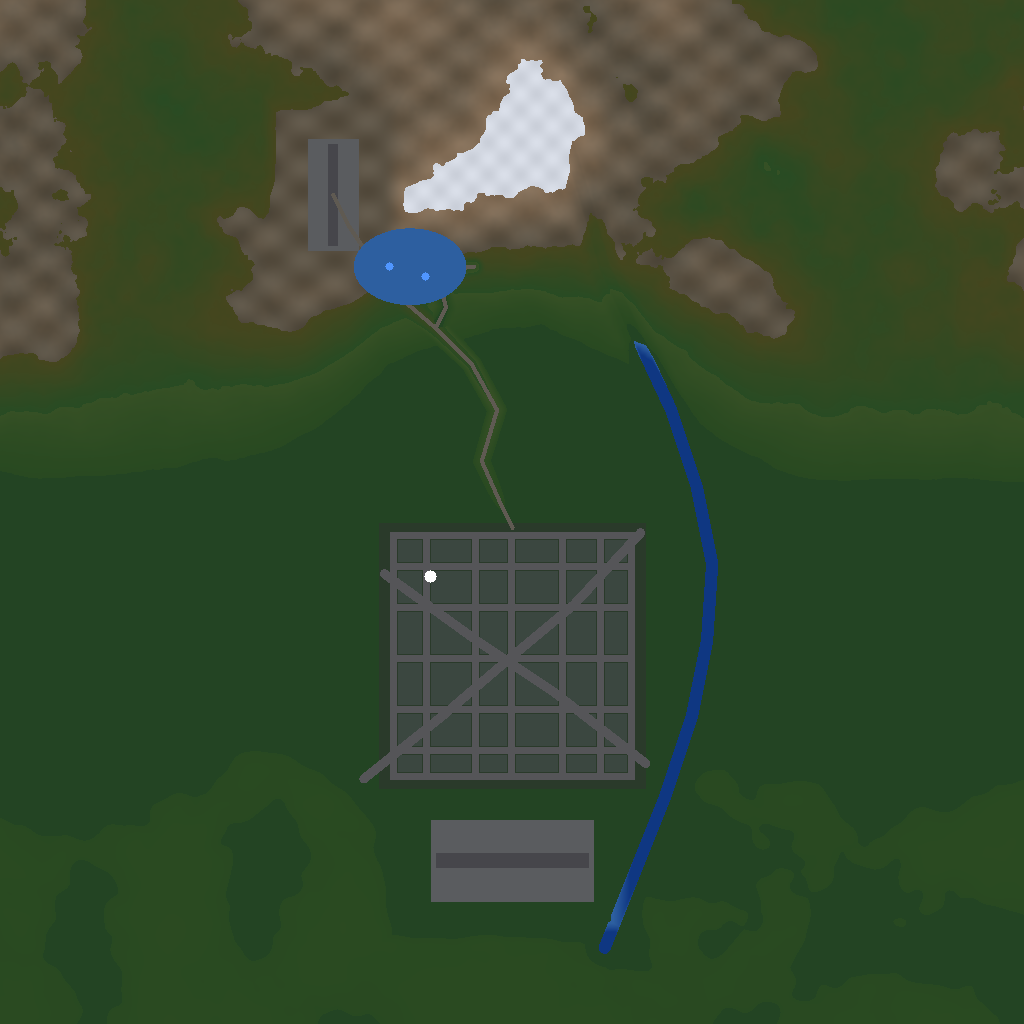
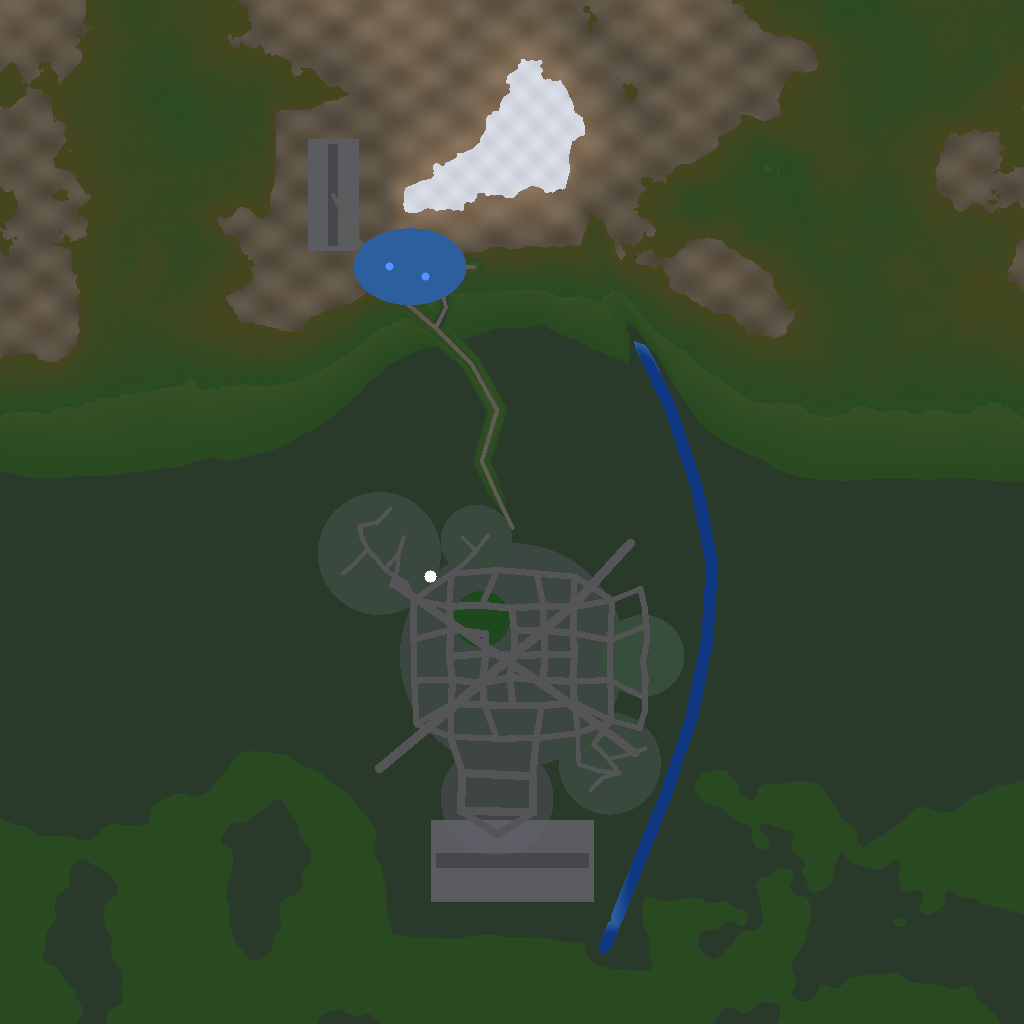
Fix city rendering bugs and improve mobile fullscreen
City fixes:
- Fix getDistrictAt() returning midtown for ALL points outside districts,
  causing buildings to spawn randomly across the entire map. Now returns
  density=0 for points outside any district.
- Fix diagonal boulevards creating overlapping geometry by routing through
  downtown grid nodes. Boulevards now use dedicated waypoints instead.
- Increase intersection fill size and add rotated fills for angled junctions
  to eliminate black gaps between road segments.
- Add +3 unit margin to isOnAnyRoad() to cover sidewalks, preventing trees
  from spawning on road edges.
- Add density<=0 safety check in building generation.

Mobile fullscreen:
- Try fullscreening body element (works better on iOS Safari than documentElement)
- Add webkitEnterFullscreen fallback
- Add scrollTo(0,1) fallback for older iOS Safari
- Listen for webkitfullscreenchange event
- Add interactive-widget=resizes-content to viewport meta

Changed region(s): [[0.3125, 0.4688, 0.6875, 0.8125]]

diff --git a/src/main.ts b/src/main.ts
@@ -109,13 +109,25 @@ async function main() {
 
   await new Promise<void>(resolve => {
     const start = () => {
-      // Request fullscreen on mobile (must be in user gesture handler)
       if (input.isMobile) {
-        const d = document.documentElement as any;
-        if (d.requestFullscreen) d.requestFullscreen().catch(() => {});
-        else if (d.webkitRequestFullscreen) d.webkitRequestFullscreen();
-        // Try to lock landscape orientation
+        // Try fullscreen on body first (works better on iOS Safari)
+        const el = document.body as any;
+        const tryFS = (target: any) => {
+          if (target.requestFullscreen) return target.requestFullscreen().catch(() => {});
+          if (target.webkitRequestFullscreen) { target.webkitRequestFullscreen(); return Promise.resolve(); }
+          if (target.webkitEnterFullscreen) { target.webkitEnterFullscreen(); return Promise.resolve(); }
+          return Promise.resolve();
+        };
+        tryFS(el).then(() => {
+          // If body didn't work, try documentElement
+          if (!document.fullscreenElement && !(document as any).webkitFullscreenElement) {
+            tryFS(document.documentElement);
+          }
+        });
+        // Lock landscape orientation
         try { (screen.orientation as any).lock('landscape').catch(() => {}); } catch {}
+        // iOS Safari fallback: scroll to hide address bar
+        setTimeout(() => window.scrollTo(0, 1), 100);
       }
       resolve();
     };
@@ -132,18 +144,20 @@ async function main() {
   // Handle resize
   window.addEventListener('resize', () => renderer.resize());
 
-  // Re-request fullscreen on mobile if user exits it (tap canvas to re-enter)
+  // Re-request fullscreen on mobile if user exits it
   if (input.isMobile) {
-    document.addEventListener('fullscreenchange', () => {
-      if (!document.fullscreenElement) {
+    const watchFS = () => {
+      if (!document.fullscreenElement && !(document as any).webkitFullscreenElement) {
         const canvas = document.getElementById('canvas')!;
         canvas.addEventListener('touchstart', () => {
-          const d = document.documentElement as any;
-          if (d.requestFullscreen) d.requestFullscreen().catch(() => {});
-          else if (d.webkitRequestFullscreen) d.webkitRequestFullscreen();
+          const el = document.body as any;
+          if (el.requestFullscreen) el.requestFullscreen().catch(() => {});
+          else if (el.webkitRequestFullscreen) el.webkitRequestFullscreen();
         }, { once: true });
       }
-    });
+    };
+    document.addEventListener('fullscreenchange', watchFS);
+    document.addEventListener('webkitfullscreenchange', watchFS);
   }
 
   // Game loop

diff --git a/src/world/road-network.ts b/src/world/road-network.ts
@@ -144,23 +144,22 @@ function generate() {
 
   // ========================================
   // DIAGONAL BOULEVARDS through downtown
+  // Use dedicated waypoints so they don't create overlapping geometry with grid roads
   // ========================================
-  // Main boulevard: SW to NE through city center
   const blvdSW = addNode('blvd_sw', CX - 260, CZ + 220);
   const blvdNE = addNode('blvd_ne', CX + 230, CZ - 220);
-  // Connect through existing downtown nodes near center
-  addSeg('blvd_sw', dtIds[3][0], 18);
-  addSeg(dtIds[3][0], dtIds[2][2], 18); // cuts diagonal through grid
-  addSeg(dtIds[2][2], dtIds[1][4], 18);
-  addSeg(dtIds[1][4], 'blvd_ne', 18);
+  addSeg('blvd_sw', 'blvd_ne', 18, [
+    [CX - 140, CZ + 120],
+    [CX, CZ],
+    [CX + 120, CZ - 100],
+  ]);
 
-  // Secondary avenue: SE to NW
   const aveSE = addNode('ave_se', CX + 240, CZ + 190);
   const aveNW = addNode('ave_nw', CX - 230, CZ - 140);
-  addSeg('ave_se', dtIds[3][4], 16);
-  addSeg(dtIds[3][4], dtIds[2][2], 16);
-  addSeg(dtIds[2][2], dtIds[1][0], 16);
-  addSeg(dtIds[1][0], 'ave_nw', 16);
+  addSeg('ave_se', 'ave_nw', 16, [
+    [CX + 80, CZ + 70],
+    [CX - 70, CZ - 30],
+  ]);
 
   // ========================================
   // MIDTOWN RING - extends from downtown edges
@@ -454,8 +453,8 @@ export function getDistrictAt(x: number, z: number): District {
   const mdx = x - midtown.center[0], mdz = z - midtown.center[1];
   if (Math.sqrt(mdx * mdx + mdz * mdz) < midtown.radius) return midtown;
 
-  // Outside all districts
-  return midtown; // default
+  // Outside all districts - return a "none" district with zero density
+  return { type: 'midtown', center: [0, 0], radius: 0, minHeight: 0, maxHeight: 0, density: 0, hasYards: false };
 }
 
 // ========================================
@@ -615,7 +614,7 @@ export function isOnAnyRoad(x: number, z: number): boolean {
     const seg = segmentArray[si];
     const pts = getSegmentPoints(seg);
     const [dist] = distToPath(x, z, pts);
-    if (dist < seg.width / 2) return true;
+    if (dist < seg.width / 2 + 3) return true; // +3 for sidewalk margin
   }
   return false;
 }

diff --git a/src/world/city.ts b/src/world/city.ts
@@ -168,22 +168,34 @@ export class City {
       }
     }
 
-    // Fill intersection circles at nodes with 3+ connections
+    // Fill intersections at nodes to cover gaps between road segments
     for (const node of ROAD_NODES) {
       if (node.connections.length >= 2) {
-        // Find max road width at this node
         let maxW = 0;
         for (const segId of node.connections) {
           const seg = ROAD_SEGMENTS.find(s => s.id === segId);
           if (seg) maxW = Math.max(maxW, seg.width);
         }
-        const fillSize = maxW + 2;
+        // Use a larger fill to cover angled intersections
+        const fillSize = maxW + 6;
         const fill = createPlane(fillSize, fillSize, 0.3, 0.3, 0.32);
         const fillMesh = renderer.createMesh(fill.vertices, fill.indices, 'terrain');
         this.airportMeshes.push({
           mesh: fillMesh,
-          modelMatrix: mat4.translation(node.x, 0.021, node.z)
+          modelMatrix: mat4.translation(node.x, 0.019, node.z)
         });
+        // Add a rotated fill for better coverage at angled intersections
+        if (node.connections.length >= 3) {
+          const fill2 = createPlane(fillSize, fillSize, 0.3, 0.3, 0.32);
+          const fill2Mesh = renderer.createMesh(fill2.vertices, fill2.indices, 'terrain');
+          this.airportMeshes.push({
+            mesh: fill2Mesh,
+            modelMatrix: mat4.multiply(
+              mat4.translation(node.x, 0.019, node.z),
+              mat4.rotationY(Math.PI / 4)
+            )
+          });
+        }
       }
     }
   }
@@ -221,8 +233,9 @@ export class City {
 
         const district = getDistrictAt(sx, sz);
 
-        // Skip parks
+        // Skip parks and areas with no density (outside city)
         if (district.type === 'park') continue;
+        if (district.density <= 0) continue;
 
         // Density check
         if (rng() > district.density) continue;

diff --git a/index.html b/index.html
@@ -2,7 +2,7 @@
 <html lang="en">
 <head>
   <meta charset="UTF-8">
-  <meta name="viewport" content="width=device-width, initial-scale=1.0, maximum-scale=1.0, user-scalable=no, viewport-fit=cover">
+  <meta name="viewport" content="width=device-width, initial-scale=1.0, maximum-scale=1.0, user-scalable=no, viewport-fit=cover, interactive-widget=resizes-content">
   <meta name="apple-mobile-web-app-capable" content="yes">
   <meta name="apple-mobile-web-app-status-bar-style" content="black-translucent">
   <meta name="mobile-web-app-capable" content="yes">
